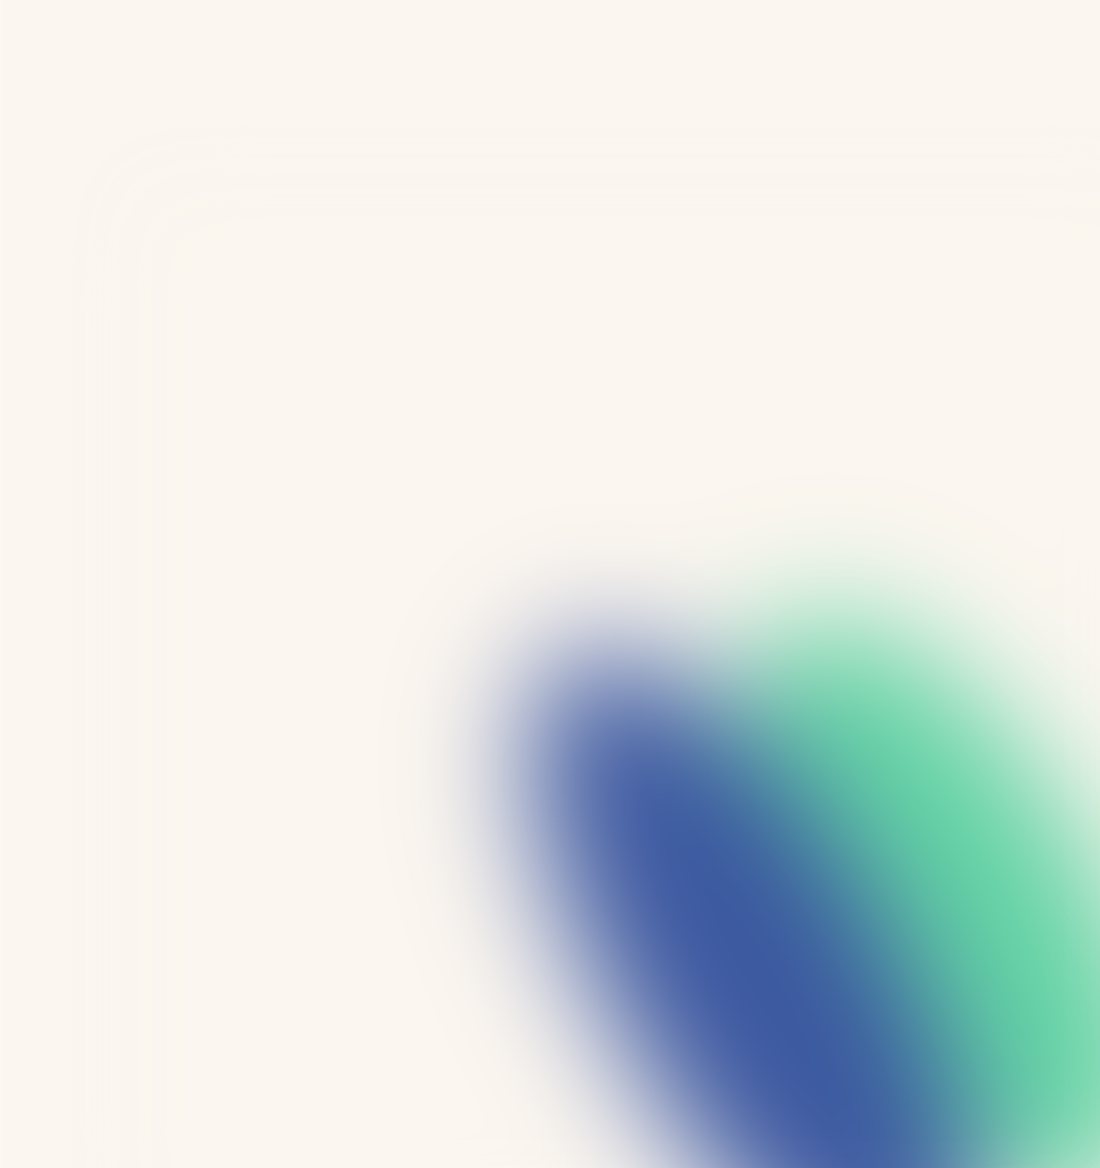
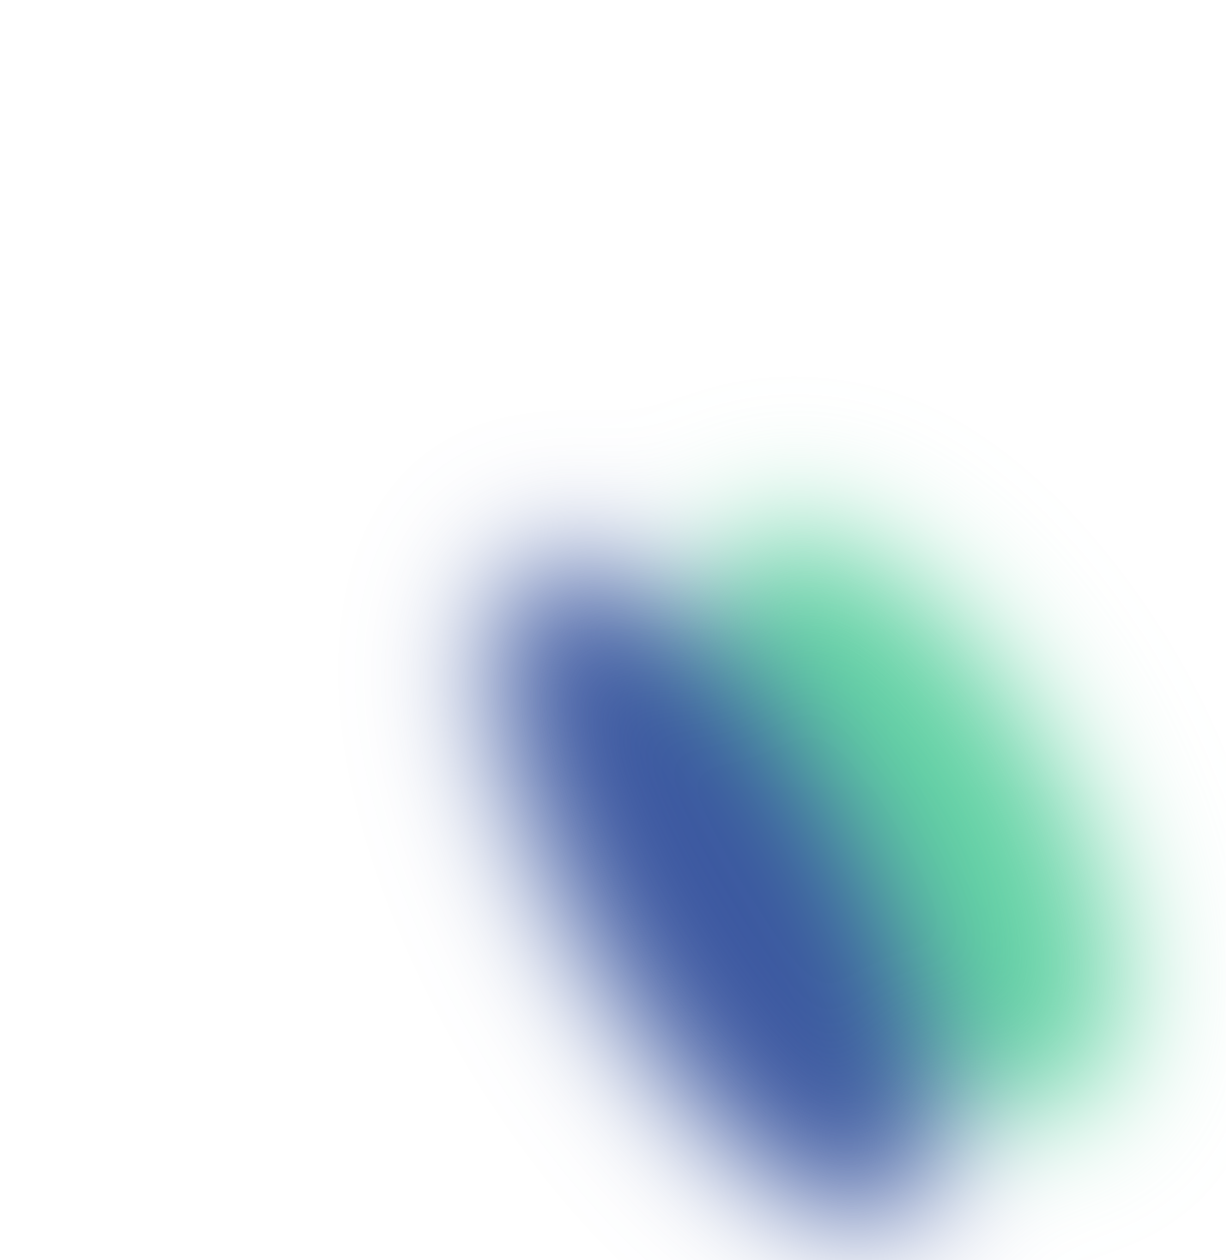
bcp de choses

Changed region(s): [[0.5255, 0.5548, 1.0, 1.0], [0.34, 0.3699, 0.8036, 0.7705]]

diff --git a/src/pages/edituser.tsx b/src/pages/edituser.tsx
@@ -2,7 +2,7 @@ import { useState, useEffect } from "react";
 import { useTranslation } from "react-i18next";
 import Input from "../component/Input/Input";
 import Button from "../component/Button/Button";
-import bg from "../content/backblue.png";
+import bg from "../content/newbackblue.png";
 import logo from "../content/logoblack.png";
 
 type UserProfile = {
@@ -63,7 +63,7 @@ const UserProfileForm = () => {
       style={{
         backgroundImage: `url(${bg})`,
       }}
-      className="h-screen w-full flex justify-center bg-whitish items-center flex-col bg-[center_bottom_-10rem] sm:bg-[right_bottom_-20rem] lg:bg-cover lg:bg-top bg-contain bg-no-repeat"
+      className="h-screen bg-whitish dark:bg-dark dark:text-whitish lg:bg-right bg-right-bottom max-w-full flex justify-center items-center flex-col bg-cover bg-no-repeat"
     >
       {userProfile.photo ? (
         <img
@@ -105,7 +105,7 @@ const UserProfileForm = () => {
             name="company"
             value={userProfile.company}
             onChange={handleInputChange}
-            className="block w-full px-3 py-2 text-sm text-black bg-transparent border border-black focus:outline-none focus:ring-2 focus:ring-blue-500 focus:border-blue-500 sm:text-sm"
+            className="block w-full px-3 py-2 text-sm text-black bg-transparent border border-black focus:outline-none focus:ring-2 focus:ring-blue-500 focus:border-blue-500 sm:text-sm dark:border-whitish dark:text-whitish"
           >
             <option value="">Sélectionnez une entreprise</option>
             <option value="entreprise1">Entreprise 1</option>
@@ -118,7 +118,7 @@ const UserProfileForm = () => {
             id="photo"
             type="file"
             accept="image/*"
-            className="block py-2 px-0 mb-6 w-full text-sm text-black bg-transparent border-0 border-b border-black appearance-none "
+            className="block py-2 px-0 mb-6 w-full text-sm text-black bg-transparent border-0 border-b border-black appearance-none dark:text-whitish dark:border-whitish"
             onChange={handlePhotoChange}
           />
 

diff --git a/src/pages/compagny.tsx b/src/pages/compagny.tsx
@@ -4,18 +4,20 @@ import arrow from "../content/arrow.svg";
 import profile from "../content/backbecode.png";
 import logo from "../content/becode.png";
 import back from "../content/newbackblue.png";
-
-const handleButtonClick = () => {
-  console.log("Button clicked!");
-};
-const Profile: React.FC = () => {
+import { useNavigate } from "react-router-dom";
+const Compagny: React.FC = () => {
+  const navigate = useNavigate();
+  // Navigate to the feed page
+  const navigateFeed = () => {
+    navigate("/feed");
+  };
   return (
-    <div className="h-screen flex items-center justify-center relative bg-whitish">
+    <div className="h-screen flex items-center justify-center relative bg-whitish dark:bg-black dark:text-whitish">
       <div className="absolute z-50 w-20 h-20 md:w-24 md:h-24">
         <img src={logo} className="object-cover" />
       </div>
       <RoundButton
-        clickHandler={handleButtonClick}
+        clickHandler={navigateFeed}
         classname="absolute z-50 w-12 h-12 bg-black/50 md:w-12 md:h-12 top-0 left-0 mt-4 ml-4"
         color=""
         svg={<img src={arrow} className="h-1/2 " />}
@@ -24,7 +26,6 @@ const Profile: React.FC = () => {
         <div className="h-1/2 relative lg:h-full lg:w-1/2 shadow-2xl ">
           <img src={profile} className="w-full h-full object-cover" />
         </div>
-
         <div
           style={{ backgroundImage: `url(${back})` }}
           className="h-1/2 flex flex-col justify-center bg-center bg-cover items-center relative lg:w-1/2 lg:h-full"
@@ -34,7 +35,7 @@ const Profile: React.FC = () => {
               <h1>BeCode</h1>
             </div>
           </div>
-          <div className=" overflow-y-scroll mx-6 md:w-2/3 md:text-l">
+          <div className="overflow-y-scroll mx-6 md:w-2/3 md:text-l">
             <p>
               Lorem ipsum dolor sit amet. Hic ipsam fugit et sunt ullam aut enim
               quis non voluptas asperiores et accusantium sint. Id accusantium
@@ -48,4 +49,4 @@ const Profile: React.FC = () => {
   );
 };
 
-export default Profile;
+export default Compagny;

diff --git a/src/component/Navbar/navbar.tsx b/src/component/Navbar/navbar.tsx
@@ -1,21 +1,21 @@
 import React from "react";
-<<<<<<<< HEAD:src/component/Navbar/navbar.tsx
-import Logo from "../../assets/logo.png";
-import Search from "../../assets/search.png";
-========
-import Logo from "../content/logowhite.svg";
-import Search from "../content/search.svg";
->>>>>>>> development:src/component/navbar.tsx
-
+import Logo from "../../content/logowhite.svg";
+import Search from "../../content/search.svg";
+import profile from "../../content/profile12.png";
+import Toggle from "../../component/Dark/Dark";
 const Navbar: React.FC = () => {
   return (
     <nav className="bg-black h-12 flex items-center p-2">
-      <img className="h-7 m-2 lg:h-8 lg:m-3 xl:h-9 xl:m-4 2xl:h-9 2xl:m-5" src={Logo} alt="Logo" />
-
+      <img
+        className="h-7 m-2 lg:h-8 lg:m-3 xl:h-9 xl:m-4 2xl:h-9 2xl:m-5"
+        src={Logo}
+        alt="Logo"
+      />
+      <Toggle />
       <form className="flex items-center justify-end flex-1 cursor-text">
         <div className="relative flex items-center w-11/12 sm:w-40 md:w-48 lg:w-96 xl:w-96 2xl:w-100">
           <input
-            className="bg-transparent border border-white rounded-full text-white h-6 w-full pr-10 py-1 pl-3 sm:pr-2 sm:py-2 sm:pl-4 lg:pr-3 lg:py-3 lg:pl-3 xl:pr-4  xl:py-4 xl:pl-4"
+            className="bg-transparent border border-whitish rounded-full text-whitish h-6 w-full pr-10 py-1 pl-3 sm:pr-2 sm:py-2 sm:pl-4 lg:pr-3 lg:py-3 lg:pl-3 xl:pr-4  xl:py-4 xl:pl-4"
             type="text"
             placeholder="Search"
           />
@@ -29,7 +29,7 @@ const Navbar: React.FC = () => {
 
       <img
         className="inline-block h-9 w-9 m-2 lg:m-3 xl:m-4 2xl:m-5 rounded-full ring-2 ring-white"
-        src="https://images.unsplash.com/photo-1491528323818-fdd1faba62cc?ixlib=rb-1.2.1&ixid=eyJhcHBfaWQiOjEyMDd9&auto=format&fit=facearea&facepad=2&w=256&h=256&q=80"
+        src={profile}
         alt="John Doe's profile"
       />
     </nav>

diff --git a/src/pages/user.tsx b/src/pages/user.tsx
@@ -5,26 +5,33 @@ import arrow from "../content/arrow.svg";
 import profile from "../content/profile16.jpg";
 import logo from "../content/becode.png";
 import back from "../content/newbackblue.png";
+import { useNavigate } from "react-router-dom";
 
-const handleButtonClick = () => {
-  console.log("Button clicked!");
-};
 const Profile: React.FC = () => {
+  const navigate = useNavigate();
+  // Navigate to the feed page
+  const navigateFeed = () => {
+    navigate("/feed");
+  };
+  const navigateEdit = () => {
+    navigate("/edituser");
+  };
+
   return (
     <div className="h-screen flex items-center justify-center relative bg-whitish">
       <RoundButton
-        clickHandler={handleButtonClick}
+        clickHandler={navigateEdit}
         classname="absolute z-50 w-16 h-16 bg-blue md:w-20 md:h-20 shadow-xl"
         color=""
-        svg={<img src={edit} className="w-1/2 " />}
+        svg={<img src={edit} className="w-1/2 dark:invert" />}
       />
       <RoundButton
-        clickHandler={handleButtonClick}
+        clickHandler={navigateFeed}
         classname="absolute z-50 w-12 h-12 bg-black/50 md:w-12 md:h-12 top-0 left-0 mt-4 ml-4"
         color=""
         svg={<img src={arrow} className="h-1/2 " />}
       />
-      <div className="flex flex-col h-screen lg:flex-row">
+      <div className="flex flex-col h-screen lg:flex-row bg-whitish dark:bg-dark dark:text-whitish">
         <div className="h-1/2 relative lg:h-full lg:w-1/2 shadow-2xl ">
           <img src={profile} className="w-full h-full object-cover" />
         </div>

diff --git a/src/pages/profile.tsx b/src/pages/profile.tsx
@@ -5,25 +5,32 @@ import arrow from "../content/arrow.svg";
 import profile from "../content/profile12.png";
 import logo from "../content/becode.png";
 import back from "../content/newbackblue.png";
+import { useNavigate } from "react-router-dom";
 
-const handleButtonClick = () => {
-  console.log("Button clicked!");
-};
 const Profile: React.FC = () => {
+  const navigate = useNavigate();
+  // Navigate to the feed page
+  const navigateFeed = () => {
+    navigate("/feed");
+  };
+  const handleButtonClick = () => {
+    console.log("Button clicked!");
+  };
   return (
-    <div className="h-screen flex items-center justify-center relative bg-whitish">
+    <div className="h-screen flex items-center justify-center relative bg-whitish dark:bg-dark dark:text-whitish">
       <RoundButton
         clickHandler={handleButtonClick}
         classname="absolute z-50 w-16 h-16 bg-pink md:w-20 md:h-20 shadow-xl"
         color=""
-        svg={<img src={heart} className="w-1/2 " />}
+        svg={<img src={heart} className="w-1/2 dark:invert" />}
       />
       <RoundButton
-        clickHandler={handleButtonClick}
+        clickHandler={navigateFeed}
         classname="absolute z-50 w-12 h-12 bg-black/50 md:w-12 md:h-12 top-0 left-0 mt-4 ml-4"
         color=""
         svg={<img src={arrow} className="h-1/2 " />}
       />
+
       <div className="flex flex-col h-screen lg:flex-row">
         <div className="h-1/2 relative lg:h-full lg:w-1/2 shadow-2xl ">
           <img src={profile} className="w-full h-full object-cover" />

diff --git a/src/component/Dark/Dark.tsx b/src/component/Dark/Dark.tsx
@@ -1,0 +1,34 @@
+import { useState } from "react";
+import { Switch } from "@headlessui/react";
+import moonIcon from "../../content/moon.svg";
+import sunIcon from "../../content/sun.svg";
+
+export default function Example() {
+  const [enabled, setEnabled] = useState(false);
+  const handleDarkMode = () => {
+    const body = document.querySelector("body");
+    body.classList.toggle("dark");
+    setEnabled(!enabled);
+  };
+  return (
+    <div className="py-16">
+      <Switch
+        checked={enabled}
+        onChange={handleDarkMode}
+        className={`${
+          enabled ? "bg-teal" : "bg-pink"
+        } relative inline-flex h-[38px] w-[74px] shrink-0 cursor-pointer rounded-full border-2 border-transparent transition-colors duration-200 ease-in-out focus:outline-none focus-visible:ring-2 focus-visible:ring-white focus-visible:ring-opacity-75`}
+      >
+        <span className="sr-only">Use setting</span>
+        <span
+          aria-hidden="true"
+          className={`${
+            enabled ? "translate-x-9" : "translate-x-0"
+          } flex items-center pointer-events-none place-content-center h-[34px] w-[34px] transform rounded-full bg-white shadow-lg ring-0 transition duration-200 ease-in-out`}
+        >
+          <img src={enabled ? moonIcon : sunIcon} alt="" className="w-1/2" />
+        </span>
+      </Switch>
+    </div>
+  );
+}

diff --git a/src/pages/login.tsx b/src/pages/login.tsx
@@ -6,7 +6,7 @@ import Notification from "../component/Notification/Notification"; // import the
 import { useTranslation } from "react-i18next";
 import logo from "../content/logo.png";
 import bg from "../content/newbackblue.png";
-
+import Toggle from "../component/Dark/Dark";
 function Login() {
   const navigateFeed = () => {
     // 👇 navigate to /
@@ -70,15 +70,16 @@ function Login() {
       style={{
         backgroundImage: `url(${bg})`,
       }}
-      className="h-screen bg-whitish lg:bg-right bg-right-bottom max-w-full flex justify-center items-center flex-col bg-cover bg-no-repeat"
+      className="h-screen bg-whitish dark:bg-dark dark:text-whitish lg:bg-right bg-right-bottom max-w-full flex justify-center items-center flex-col bg-cover bg-no-repeat"
     >
       {/* <img
         src={bg}
         alt="soft blue green background"
         className="absolute bottom-[0] left-10 z-[-1]"
       /> */}
-      <img src={logo} alt="logo" className="w-44 mb-10" />
+      <img src={logo} alt="logo" className="w-44 mb-10 dark:invert" />
       <form onSubmit={handleSubmit} className="p-4">
+        <Toggle />
         <Input
           type="text"
           name="email"

diff --git a/src/index.css b/src/index.css
@@ -28,3 +28,55 @@ input:checked + div {
 input:checked + div svg {
   display: block;
 }
+
+@import url("./styles/output.css");
+.toggleDarkBtn {
+  position: relative;
+  display: inline-block;
+  width: 65px;
+  height: 41px;
+}
+.toggleDarkBtn input {
+  opacity: 0;
+  width: 0;
+  height: 0;
+}
+.slideBtnTg {
+  position: absolute;
+  cursor: pointer;
+  top: 0;
+  left: 0;
+  right: 0;
+  bottom: 0;
+  background-color: rgb(241, 40, 40);
+  -webkit-transition: 0.5s;
+  transition: 0.5s;
+}
+.slideBtnTg:before {
+  position: absolute;
+  content: "";
+  height: 30px;
+  width: 30px;
+  left: 5px;
+  bottom: 5px;
+  -webkit-transition: 0.5s;
+  transition: 0.5s;
+  background-color: white;
+}
+input:checked + .slideBtnTg {
+  background-color: #1d1e1f;
+}
+input:focus + .slideBtnTg {
+  box-shadow: 0 0 1px #2196f3;
+}
+input:checked + .slideBtnTg:before {
+  -webkit-transform: translateX(26px);
+  -ms-transform: translateX(26px);
+  transform: translateX(26px);
+}
+.slideBtnTg.round {
+  border-radius: 34px;
+}
+.slideBtnTg.round:before {
+  border-radius: 50%;
+}

diff --git a/src/component/Input/Input.tsx b/src/component/Input/Input.tsx
@@ -16,7 +16,7 @@ function Input(props: props) {
         placeholder=" "
         value={props.value}
         onChange={props.onChange}
-        className="block py-2.5 px-0 w-full text-sm text-gray-900 bg-transparent border-0 border-b border-black appearance-none focus:outline-none focus:ring-0 focus:border-black peer"
+        className="block py-2.5 px-0 w-full text-sm text-dark dark:text-whitish bg-transparent border-0 border-b border-black dark:border-whitish appearance-none focus:outline-none focus:ring-0 focus:border-black peer"
       />
       <label className="peer-focus:font-medium absolute text-sm duration-300 transform -translate-y-6 scale-75 top-3 -z-10 origin-[0] peer-focus:left-0 peer-focus:text-black peer-placeholder-shown:scale-100 peer-placeholder-shown:translate-y-0 peer-focus:scale-75 peer-focus:-translate-y-6">
         {props.label}

diff --git a/src/pages/home.tsx b/src/pages/home.tsx
@@ -20,11 +20,11 @@ export default function Home() {
   return (
     <div
       style={{ backgroundImage: `url(${back})` }}
-      className="h-screen bg-whitish lg:bg-right bg-right-bottom max-w-full flex justify-center items-center flex-col bg-cover bg-no-repeat"
+      className="h-screen bg-whitish dark:bg-dark dark:text-whitish lg:bg-right bg-right-bottom max-w-full flex justify-center items-center flex-col bg-cover bg-no-repeat"
     >
       <div className="text-center">
-        <img src={logo} alt="Logo" className="h-48 mx-auto" />
-        <h1 className="text-black text-xl font-title mt-6 mb-8">
+        <img src={logo} alt="Logo" className="h-48 mx-auto dark:invert" />
+        <h1 className="text-black text-xl font-title mt-6 mb-8 dark:text-whitish">
           {t("slogan.label")}
         </h1>
 

diff --git a/src/component/navbar.tsx b/src/component/navbar.tsx
@@ -1,7 +1,7 @@
 import React from "react";
-
 import Logo from "../content/logowhite.svg";
 import Search from "../content/search.svg";
+import profile from "../content/profile12.png";
 
 const Navbar: React.FC = () => {
   return (
@@ -28,8 +28,8 @@ const Navbar: React.FC = () => {
       </form>
 
       <img
-        className="inline-block h-9 w-9 m-2 lg:m-3 xl:m-4 2xl:m-5 rounded-full ring-2 ring-white"
-        src="https://images.unsplash.com/photo-1491528323818-fdd1faba62cc?ixlib=rb-1.2.1&ixid=eyJhcHBfaWQiOjEyMDd9&auto=format&fit=facearea&facepad=2&w=256&h=256&q=80"
+        className="inline-block h-9 w-9 m-2 lg:m-3 xl:m-4 2xl:m-5 rounded-full ring-2 ring-whitish"
+        src={profile}
         alt="John Doe's profile"
       />
     </nav>

diff --git a/src/pages/signup.tsx b/src/pages/signup.tsx
@@ -75,9 +75,9 @@ function SignUp() {
       style={{
         backgroundImage: `url(${bg})`,
       }}
-      className="h-screen bg-whitish lg:bg-right bg-right-bottom max-w-full flex justify-center items-center flex-col bg-cover bg-no-repeat"
+      className="h-screen bg-whitish dark:bg-dark dark:text-whitish lg:bg-right bg-right-bottom max-w-full flex justify-center items-center flex-col bg-cover bg-no-repeat"
     >
-      <img src={logo} alt="logo" className="w-28" />
+      <img src={logo} alt="logo" className="w-28 dark:invert" />
       <form onSubmit={handleSubmit} className="p-4">
         <Input
           type="text"
